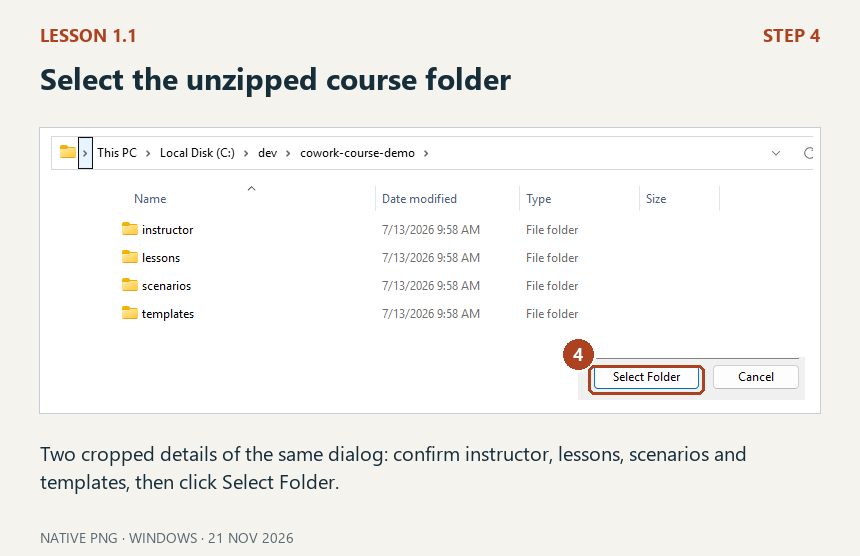
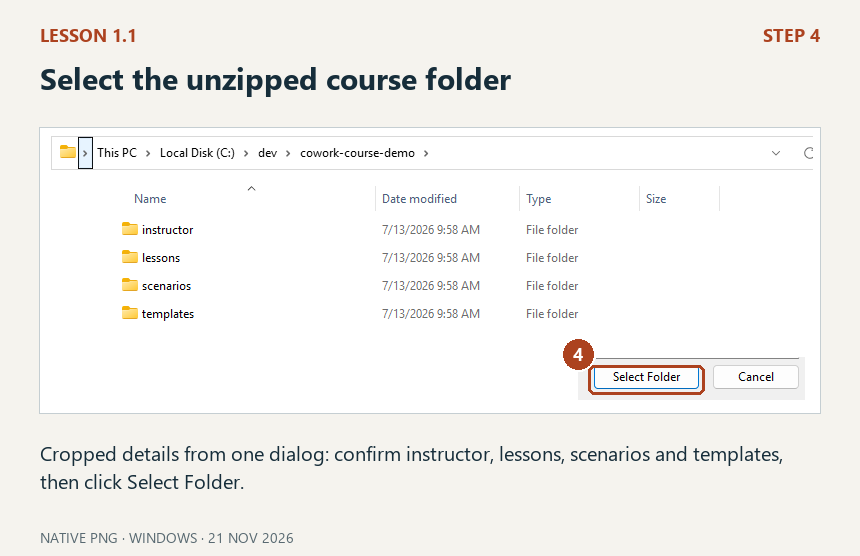
Complete Lesson 1.1 with sharp native screenshots and exercise proof

Changed region(s): [[0.0302, 0.795, 0.907, 0.8867]]

diff --git a/assets/lesson-1-1-capture-notes.md b/assets/lesson-1-1-capture-notes.md
@@ -1,39 +1,24 @@
 # Lesson 1.1 screenshot pilot
 
-## Image quality correction — 21 November 2026
+Completed on Windows on 21 November 2026. Twelve real, annotated screenshots cover steps 1–13 of Lesson 1.1 only. Other lessons and the demo GIF remain outside this pilot.
 
-The first four setup images were replaced with lossless native PNG window captures. The previous automation inspection frames were JPEGs, and enlarging their crops made them soft. The new captures enlarge the actual app interface before capture, retain screenshot pixels at 1:1 during annotation, and use compact layouts. The WordPress lesson now requests the full original PNG directly and limits its displayed width to the available page width.
+## Image quality
 
-The new folder-button screenshot shows an already-selected course folder. Before a folder is selected, this control is labeled **Project or folder**; the instructions explain both states. Folder-picker details are cropped from one real dialog and kept at native size.
+The earlier automation inspection images were JPEGs, despite their .png filenames. Enlarging small crops made them soft. All published Lesson 1.1 images now originate from lossless native Windows Alt+Print captures. We enlarged the app interface before capture, pasted crops at 1:1, and never enlarged screenshot pixels. WordPress requests the full original PNG, limits display width to the available space, preserves aspect ratio and links each full-size image.
 
-Recapture of the final two setup images and the exercise-result images is in progress. Claude usage is available again; continuation currently requires the user to accept the folder-permission prompt shown during recapture.
+## Actual capture sequence
 
-This pilot illustrates the opening **course-folder setup** section of Lesson 1.1. It does not illustrate the later question-versus-file exercise yet.
+1. Collapsed the personal sidebar; chose Cowork, the folder control, then Add folder. The folder control says Project or folder before selection; the captured home shows the selected course folder.
+2. Selected a separate synthetic course copy at C:\dev\cowork-course-demo. Confirmed only this demo folder when the permission and session-folder prompts appeared. The user explicitly authorized these folder approvals. Persistent-access checkboxes remained unchecked.
+3. Sent start lesson 1.1, supplied a fictional learner named Alex, and answered the conceptual quick checks.
+4. Asked What's in scenarios/messy-folder? Claude initially said 17 although its groups totaled 16. We checked the actual inputs and requested a recount. The screenshot shows the corrected answer and unchanged-folder statement. No folder-tour.md existed at this point.
+5. Sent the exact file-creation request from the lesson. Claude created folder-tour.md, with all 16 original filenames and one description per file.
+6. In Explorer, used Ctrl+L to enter the demo root, selected folder-tour.md and double-clicked. It opened in Visual Studio Code. Clicked Open as Preview, enlarged the interface, and captured the real file.
+7. Checked client-contacts.csv (Jordan Pike uses semicolons; missing fields) and expenses-april.csv (six expenses; ISO, slash-separated and month-name dates). Both descriptions matched. All original scenario hashes remained unchanged.
+8. Reported the review and answered the three quiz questions individually. Claude confirmed 3/3, saved Lesson 1.1 progress and stopped. Lesson 1.2 was not started.
 
-Captured from the real Claude Desktop app on Windows on 21 November 2026. The supplied reference showed Desktop app version 4.23118.0; the version number was not independently rechecked during capture. The UI labels below were observed directly in the running app. Labels can change with app updates and plan availability.
+## Capture map and privacy
 
-| Image | Numbered actions | Placement |
-|---|---|---|
-| `lesson-1-1-step-01-02-cowork-mode.png` | 1. Cowork; 2. Project or folder | Before choosing the course folder |
-| `lesson-1-1-step-03-add-folder.png` | 3. Add folder | Before the Windows folder picker |
-| `lesson-1-1-step-04-select-course-folder.png` | 4. Select Folder | After opening the unzipped course folder |
-| `lesson-1-1-step-05-folder-permission.png` | 5. Allow, shown as the learner's next action | At Claude's folder-permission prompt |
-| `lesson-1-1-step-06-start-lesson.png` | 6. Type the command and click the send arrow | After the course folder is attached |
-| `lesson-1-1-step-07-folder-access-request.png` | 7. Review the additional folder access request, if shown | After sending the start command |
+Steps 1–8 use lesson-1-1-step-* filenames. Steps 9–13 are chat-answer, chat-vs-agent, new-file-proof, review-output and quiz-complete. The exercise screenshots show a real answer, output, editor review and completion; none are fabricated. Native excerpts from the same folder-picker or Explorer window are identified in captions. Personal navigation and unrelated content were cropped out. Numbered outlines, headings and notes are annotations, not recreated product controls.
 
-## Capture sequence and privacy edits
-
-1. Opened the existing Claude home screen and collapsed the personal sidebar.
-2. Clicked **Cowork**, then **Project or folder**, then **Add folder**.
-3. Navigated the Windows folder picker to a separate synthetic course copy, `C:\dev\cowork-course-demo`.
-4. Clicked **Select Folder** and captured Claude's permission prompt. The user clicked **Allow**, and the course folder then appeared below the composer.
-5. Typed **start lesson 1.1**, captured the command and send button, and clicked the send button.
-6. Captured the additional **Folder access request** that appeared after sending. The screenshot shows the request before approval; it does not claim permission was granted.
-7. Claude returned **You've hit your weekly limit** before teaching or producing exercise output. No response or file-creation result was fabricated, and no usage reset or plan change was performed. The pilot therefore covers the setup subsection only.
-8. Added numbered outlines, instructional headings and captions to the real captures. No product controls or results were generated or redrawn.
-
-The menu image crops out personal project names. The folder-picker image masks unrelated navigation locations and removes an empty vertical area, as disclosed in its caption. The other images crop the relevant controls. No real account name, company name or chat history appears in the published images.
-
-The filenames identify lesson, step and feature. The matching Markdown lesson and WordPress page embed the same PNGs with descriptive alt text. The screenshot text is also available as ordinary lesson text for accessibility.
-
-The original planned `lesson-1-1-chat-vs-agent.png` and `lesson-1-1-new-file-proof.png` remain outstanding. Later lessons and the demo GIF are outside this pilot.
+The user supplied Desktop version 4.23118.0. The installed version was not independently rechecked; these images document the observed interface on the capture date. Labels and availability can vary. WordPress, the repository lesson and the local ZIP use matching PNGs and descriptive alt text.

diff --git a/lessons/1-1-what-is-cowork.md b/lessons/1-1-what-is-cowork.md
@@ -26,7 +26,7 @@ Follow these screenshots to open the course folder in Claude Desktop. Captured o
 
 ### Steps 1–2: Open Cowork and choose a folder
 
-Open a new conversation in Claude Desktop. Click Cowork below the message box, then open the folder control. On first use it says Project or folder; if you already selected a folder, it shows that folder?s name, as in this screenshot. Use New in the sidebar if you are in an existing conversation.
+Open a new conversation in Claude Desktop. Click Cowork below the message box, then open the folder control. On first use it says Project or folder; if you already selected a folder, it shows that folder's name, as in this screenshot. Use New in the sidebar if you are in an existing conversation.
 
 ![Native PNG of Claude Desktop with 1 highlighting Cowork and 2 highlighting the selected course folder control.](../assets/lesson-1-1-step-01-02-cowork-mode.png)
 
@@ -60,6 +60,12 @@ A second Windows folder access request may appear after you send the command. Re
 
 ![Windows Folder access request for the demo course folder, with step 7 highlighting Allow and the Don’t ask again checkbox left unchecked.](../assets/lesson-1-1-step-07-folder-access-request.png)
 
+### Step 8, if shown: Add the course folder to this session
+
+Claude may also show a card asking to add the course folder to the current session. Check that the path names your course folder, read the notice, then click Add folder. The notice and the Windows access prompt may appear in either order. Continue when the request is dismissed and Claude resumes.
+
+![Native PNG of Claude asking to add the demo course folder to the current session, with step 8 highlighting Add folder.](../assets/lesson-1-1-step-08-confirm-session-folder.png)
+
 ### Continue with the lesson
 
 When Claude begins teaching, answer its opening questions, then follow the exercise below. Keep both the question and the file-creation task in the same Cowork conversation: “chat behavior” here means an answer without a saved output, not switching to the Chat button.
@@ -70,6 +76,38 @@ When Claude begins teaching, answer its opening questions, then follow the exerc
 1. **Chat behavior:** ask me: *"What's in scenarios/messy-folder?"* — I'll read it and tell you. Notice that nothing changed; you just got an answer.
 2. **Agent behavior:** now tell me: *"Create a file called folder-tour.md in the course root that lists every file in scenarios/messy-folder with a one-line description of each."* — I'll do it.
 3. **Review:** open `folder-tour.md` yourself. Spot-check two descriptions against the real files. (Instructor: if a description is off, treat it as a teaching moment about review, not a failure.)
+
+## Visual walkthrough: ask, act and review
+
+### Step 9: Ask what is in the folder
+
+In the same Cowork conversation, send: "What's in scenarios/messy-folder?" Read the answer and compare it with the actual folder. This is chat-style behavior: you received information, but no folder-tour.md output file was created. In this demonstration, Claude first reported 17 files; the groups totaled 16. We asked it to recount, and the screenshot shows its corrected answer. Checking the answer is part of the lesson.
+
+![Claude corrects the count to 16 files and says nothing in the folder changed; step 9 highlights both facts.](../assets/lesson-1-1-chat-answer.png)
+
+### Step 10: Hand off the file-creation task
+
+Send: "Create a file called folder-tour.md in the course root that lists every file in scenarios/messy-folder with a one-line description of each." Wait for Claude to finish. Unlike the previous answer, this task creates a file on disk. The highlighted filename is the output to review.
+
+![Claude confirms saving folder-tour.md with 16 entries after the exact file-creation request, highlighted as step 10.](../assets/lesson-1-1-chat-vs-agent.png)
+
+### Step 11: Find and open the saved file
+
+Open File Explorer. Click the address bar (or press Ctrl+L), enter the path to your unzipped course folder, and press Enter. Our separate demo copy is C:\dev\cowork-course-demo; use your own course location. Select folder-tour.md, then double-click it. It opens in the application associated with Markdown files on your computer. These two native excerpts come from the same Explorer window.
+
+![Explorer course-folder address and file list, with step 11 outlining the newly saved folder-tour.md; personal navigation is cropped.](../assets/lesson-1-1-new-file-proof.png)
+
+### Step 12: Review the output against its sources
+
+Our Markdown file opened in Visual Studio Code. We clicked Open as Preview in the upper-right editor toolbar to read the table; your editor may look different. Open two source files from scenarios/messy-folder and compare their contents with the descriptions. Here, client-contacts.csv really has a semicolon-separated Jordan Pike row and missing fields. expenses-april.csv really has six expenses and three date formats. Report your findings to Claude, including any mistakes. You remain responsible for checking the result.
+
+![The actual folder-tour.md open in Markdown Preview, showing 16 files and step 12 outlining the two descriptions checked against source CSVs.](../assets/lesson-1-1-review-output.png)
+
+### Step 13: Complete the quiz and check progress
+
+Answer the three Check yourself questions in your own words. Ask Claude to record your result in my-progress.md. This demonstration finished Lesson 1.1 with all three answers correct and two output descriptions checked. Stop here to review your work before continuing to another lesson.
+
+![Claude confirms Lesson 1.1 complete with 3 out of 3 quiz answers and progress saved, highlighted as step 13.](../assets/lesson-1-1-quiz-complete.png)
 
 ## Check yourself
 1. In your own words: what's the difference between what happened in step 1 and step 2?

diff --git a/assets/SHOT-LIST.md b/assets/SHOT-LIST.md
@@ -4,7 +4,7 @@ Capture all shots during **one QA run-through** of the course in Claude Desktop 
 
 ## Capture rules
 
-- **Resolution:** ~1600px wide, PNG. The one GIF (`demo-start-lesson.gif`) should be short (5–10 s), looping.
+- **Resolution:** lossless native PNG; enlarge the app text before capture, crop tightly, and never upscale screenshot pixels. Use a readable display size and link the original. The one GIF (`demo-start-lesson.gif`) should be short (5–10 s), looping.
 - **Naming:** `lesson-<n>-<slug>-<shot>.png` exactly as listed below. Save everything into this `assets/` folder.
 - **Privacy:** no real account name/email visible in the Claude Desktop chrome — use a demo profile or crop. Nothing else needs redaction; all scenario data is fictional.
 - **Where they go:** each image is embedded in (a) the matching GitHub lesson `.md` and (b) the matching WordPress lesson page in `claudecoworktraining-complete-import-july-7-2026.xml`. Alt text suggestions included below.
@@ -22,7 +22,7 @@ Check off each shot as you capture it.
 
 ### Lesson 1.1 — What Is Claude Cowork
 
-**Setup pilot captured 21 November 2026** (see [capture notes](lesson-1-1-capture-notes.md)):
+**Lesson 1.1 completed 21 November 2026** (see [capture notes](lesson-1-1-capture-notes.md)):
 
 - [x] `lesson-1-1-step-01-02-cowork-mode.png` — Cowork and Project or folder.
 - [x] `lesson-1-1-step-03-add-folder.png` — Add folder menu item.
@@ -31,12 +31,14 @@ Check off each shot as you capture it.
 - [x] `lesson-1-1-step-06-start-lesson.png` — attached folder, lesson command and send arrow.
 - [x] `lesson-1-1-step-07-folder-access-request.png` — additional folder access request after sending, if shown.
 
-The exercise proof images below are still pending.
+All Lesson 1.1 setup and exercise images below are captured as native PNGs without upscaling.
 
-- [ ] `lesson-1-1-chat-vs-agent.png` — Cowork answering a question about `scenarios/messy-folder` (chat) vs. creating `folder-tour.md` (agent steps pane visible).
-  - Alt: "Chat answer versus agent action: Cowork creating a real file"
-- [ ] `lesson-1-1-new-file-proof.png` — File Explorer showing the freshly created `folder-tour.md`, with its content open.
-  - Alt: "The folder-tour.md file Cowork just created, open in an editor"
+- [x] `lesson-1-1-step-08-confirm-session-folder.png` — Add folder for this session, if shown.
+- [x] `lesson-1-1-chat-answer.png` — step 9, corrected answer without a saved file.
+- [x] `lesson-1-1-chat-vs-agent.png` — step 10, real file-creation task and confirmation.
+- [x] `lesson-1-1-new-file-proof.png` — step 11, Explorer path and selected output.
+- [x] `lesson-1-1-review-output.png` — step 12, actual file open in Markdown Preview.
+- [x] `lesson-1-1-quiz-complete.png` — step 13, quiz and progress confirmation.
 
 ### Lesson 1.2 — Your First Task
 

diff --git a/CHANGELOG.md b/CHANGELOG.md
@@ -4,6 +4,12 @@
 - Screenshots for every lesson and the demo GIF of the "start lesson 1.1" moment (full capture list in [assets/SHOT-LIST.md](assets/SHOT-LIST.md))
 - Social-preview image for the repo
 
+## [1.0.2] — 2026-11-21
+- Replaced all Lesson 1.1 setup images with lossless native PNGs, enlarged the app before capture, and removed screenshot upscaling.
+- Completed Lesson 1.1 with 12 annotated images covering steps 1–13: setup, question, saved file, source review and quiz completion.
+- WordPress uses original PNG sources with responsive sizing and links to full-size images. GitHub and the course download contain matching assets.
+- Documented the real 17-to-16 file-count correction and verified all 16 scenario inputs remained unchanged.
+
 ## [1.0.1] — 2026-11-21
 - Added a six-image, numbered Claude Desktop setup walkthrough to Lesson 1.1, with matching instructions, alt text, and capture notes.
 - Updated the opening steps to the observed Cowork → Project or folder → Add folder interface.

diff --git a/README.md b/README.md
@@ -2,7 +2,7 @@
 
 Learn Claude Cowork by *doing*, inside Claude itself. No videos, no signup. Download this folder, point Claude Cowork at it, and say **"start lesson 1.1"** — Claude reads the instructor files and teaches you the whole course interactively: one lesson at a time, with hands-on exercises on realistic practice files, quizzes before you advance, and a progress tracker it maintains for you.
 
-> Lesson 1.1 now includes a [numbered screenshot walkthrough for opening the course folder](lessons/1-1-what-is-cowork.md#visual-walkthrough-open-the-course-in-cowork). Screenshots for the remaining sections and the demo GIF are still planned.
+> Lesson 1.1 includes a [numbered screenshot walkthrough from setup through the exercise and quiz](lessons/1-1-what-is-cowork.md#visual-walkthrough-open-the-course-in-cowork), captured as sharp native PNGs. Other lessons and the demo GIF remain planned.
 
 ## Quickstart (3 steps)
 
